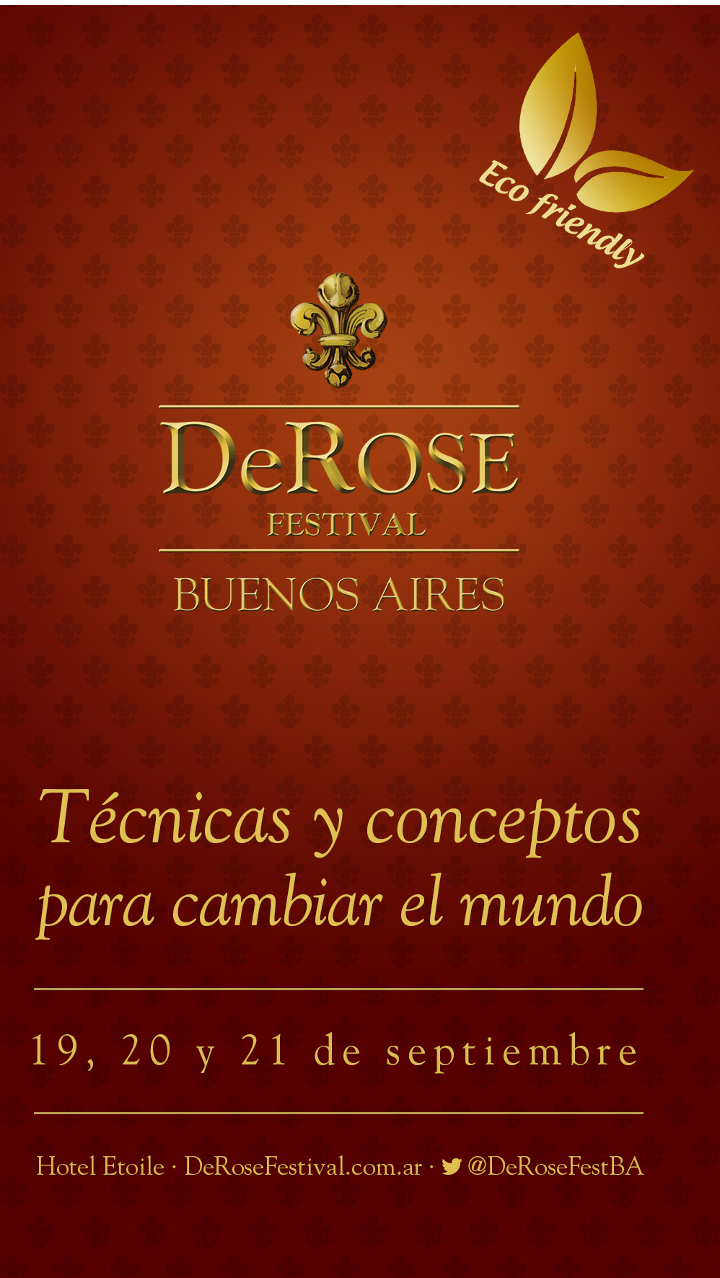
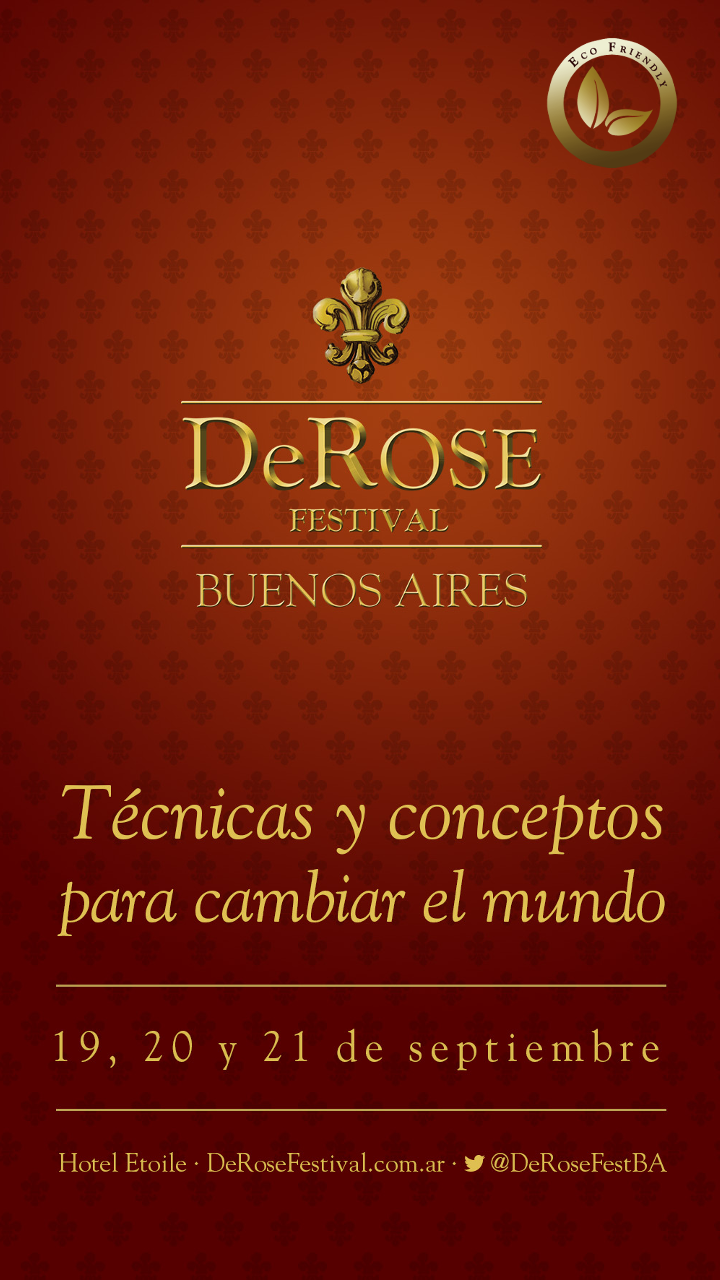
cambios en el programa

diff --git a/data/feed.js b/data/feed.js
@@ -247,8 +247,20 @@ Ext.data.JsonP.feedCb({
             speakers: []
         },
         {
+            id: 30,
+            room: paris,
+            date: viernes,
+            day: viernes,
+            time: "2014-09-19T21:30:00",
+            end_time: "2014-09-20T22:00:00",
+            pretty_time: '21:30 hs.',
+            title: "Show de coreografías",
+            description: "",
+            speakers: []
+        },
+        {
             id: 7,
-            room: '',
+            room: paris,
             date: viernes,
             day: viernes,
             time: "2014-09-19T20:00:00",

diff --git a/app.js b/app.js
@@ -28,7 +28,7 @@ Ext.require('DeRoseFest.util.Proxy');
 Ext.application({
     // Change the values below to re-configure the app for a different conference.
 
-    title:   '<img src="resources/images/logo.png"/><img src="resources/images/eco.png" style="width: 60px; vertical-align: top; margin-left: 100px;"/>',
+    title:   '<img src="resources/images/logo.png"/><img src="resources/images/eco.png" style="width: 75px; margin-left: 100px;"/>',
     dataUrl: '',
 
     twitterSearch: '#DeRoseFestivalBA',
